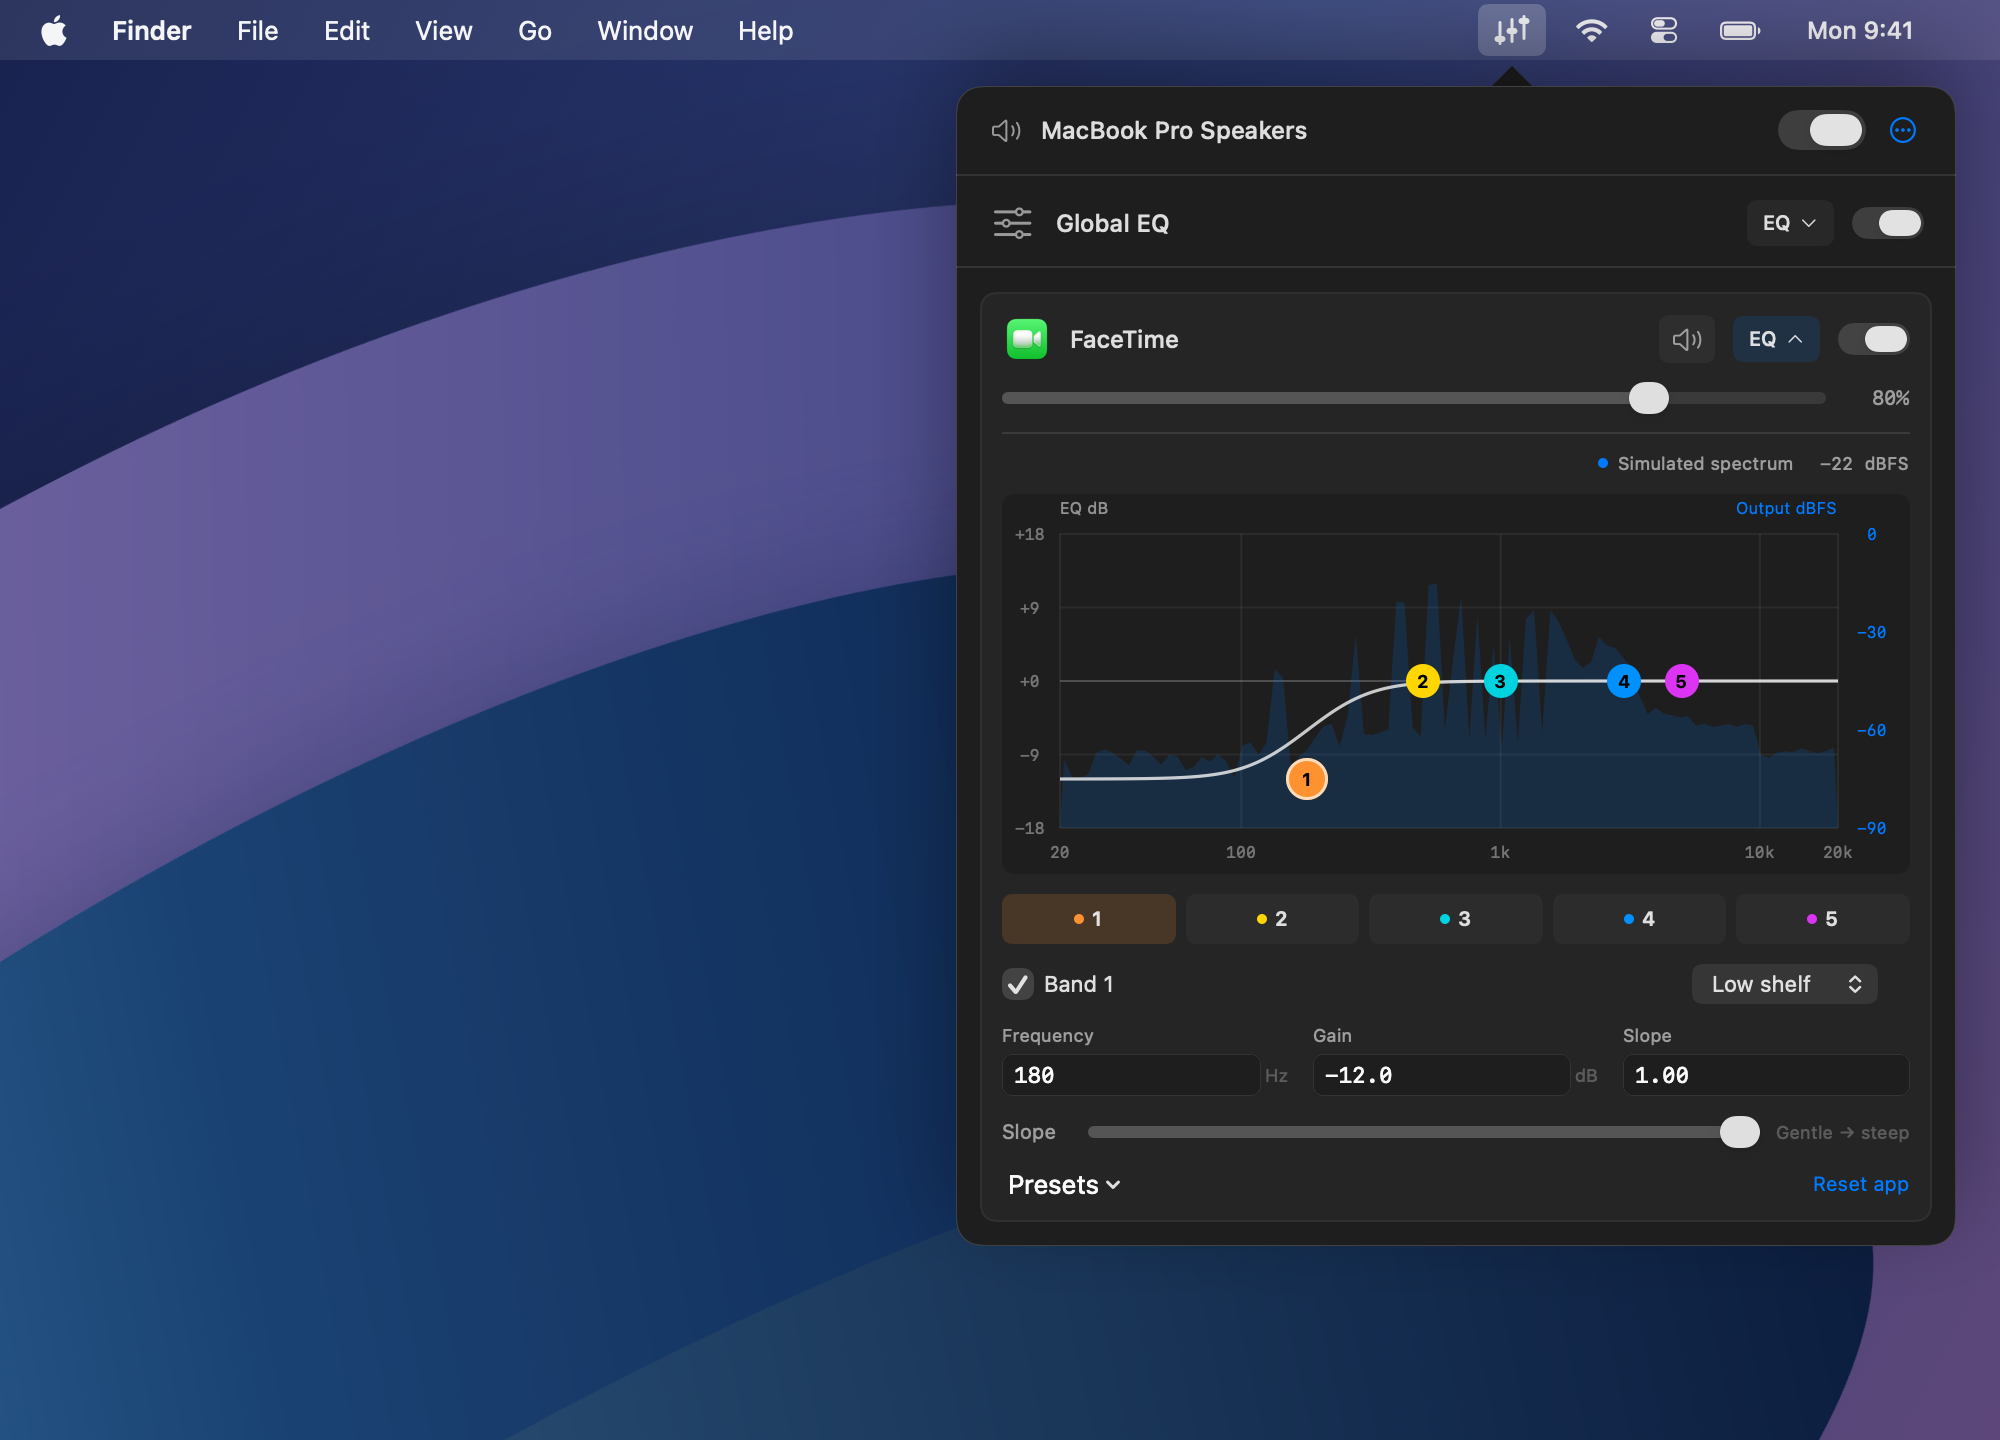
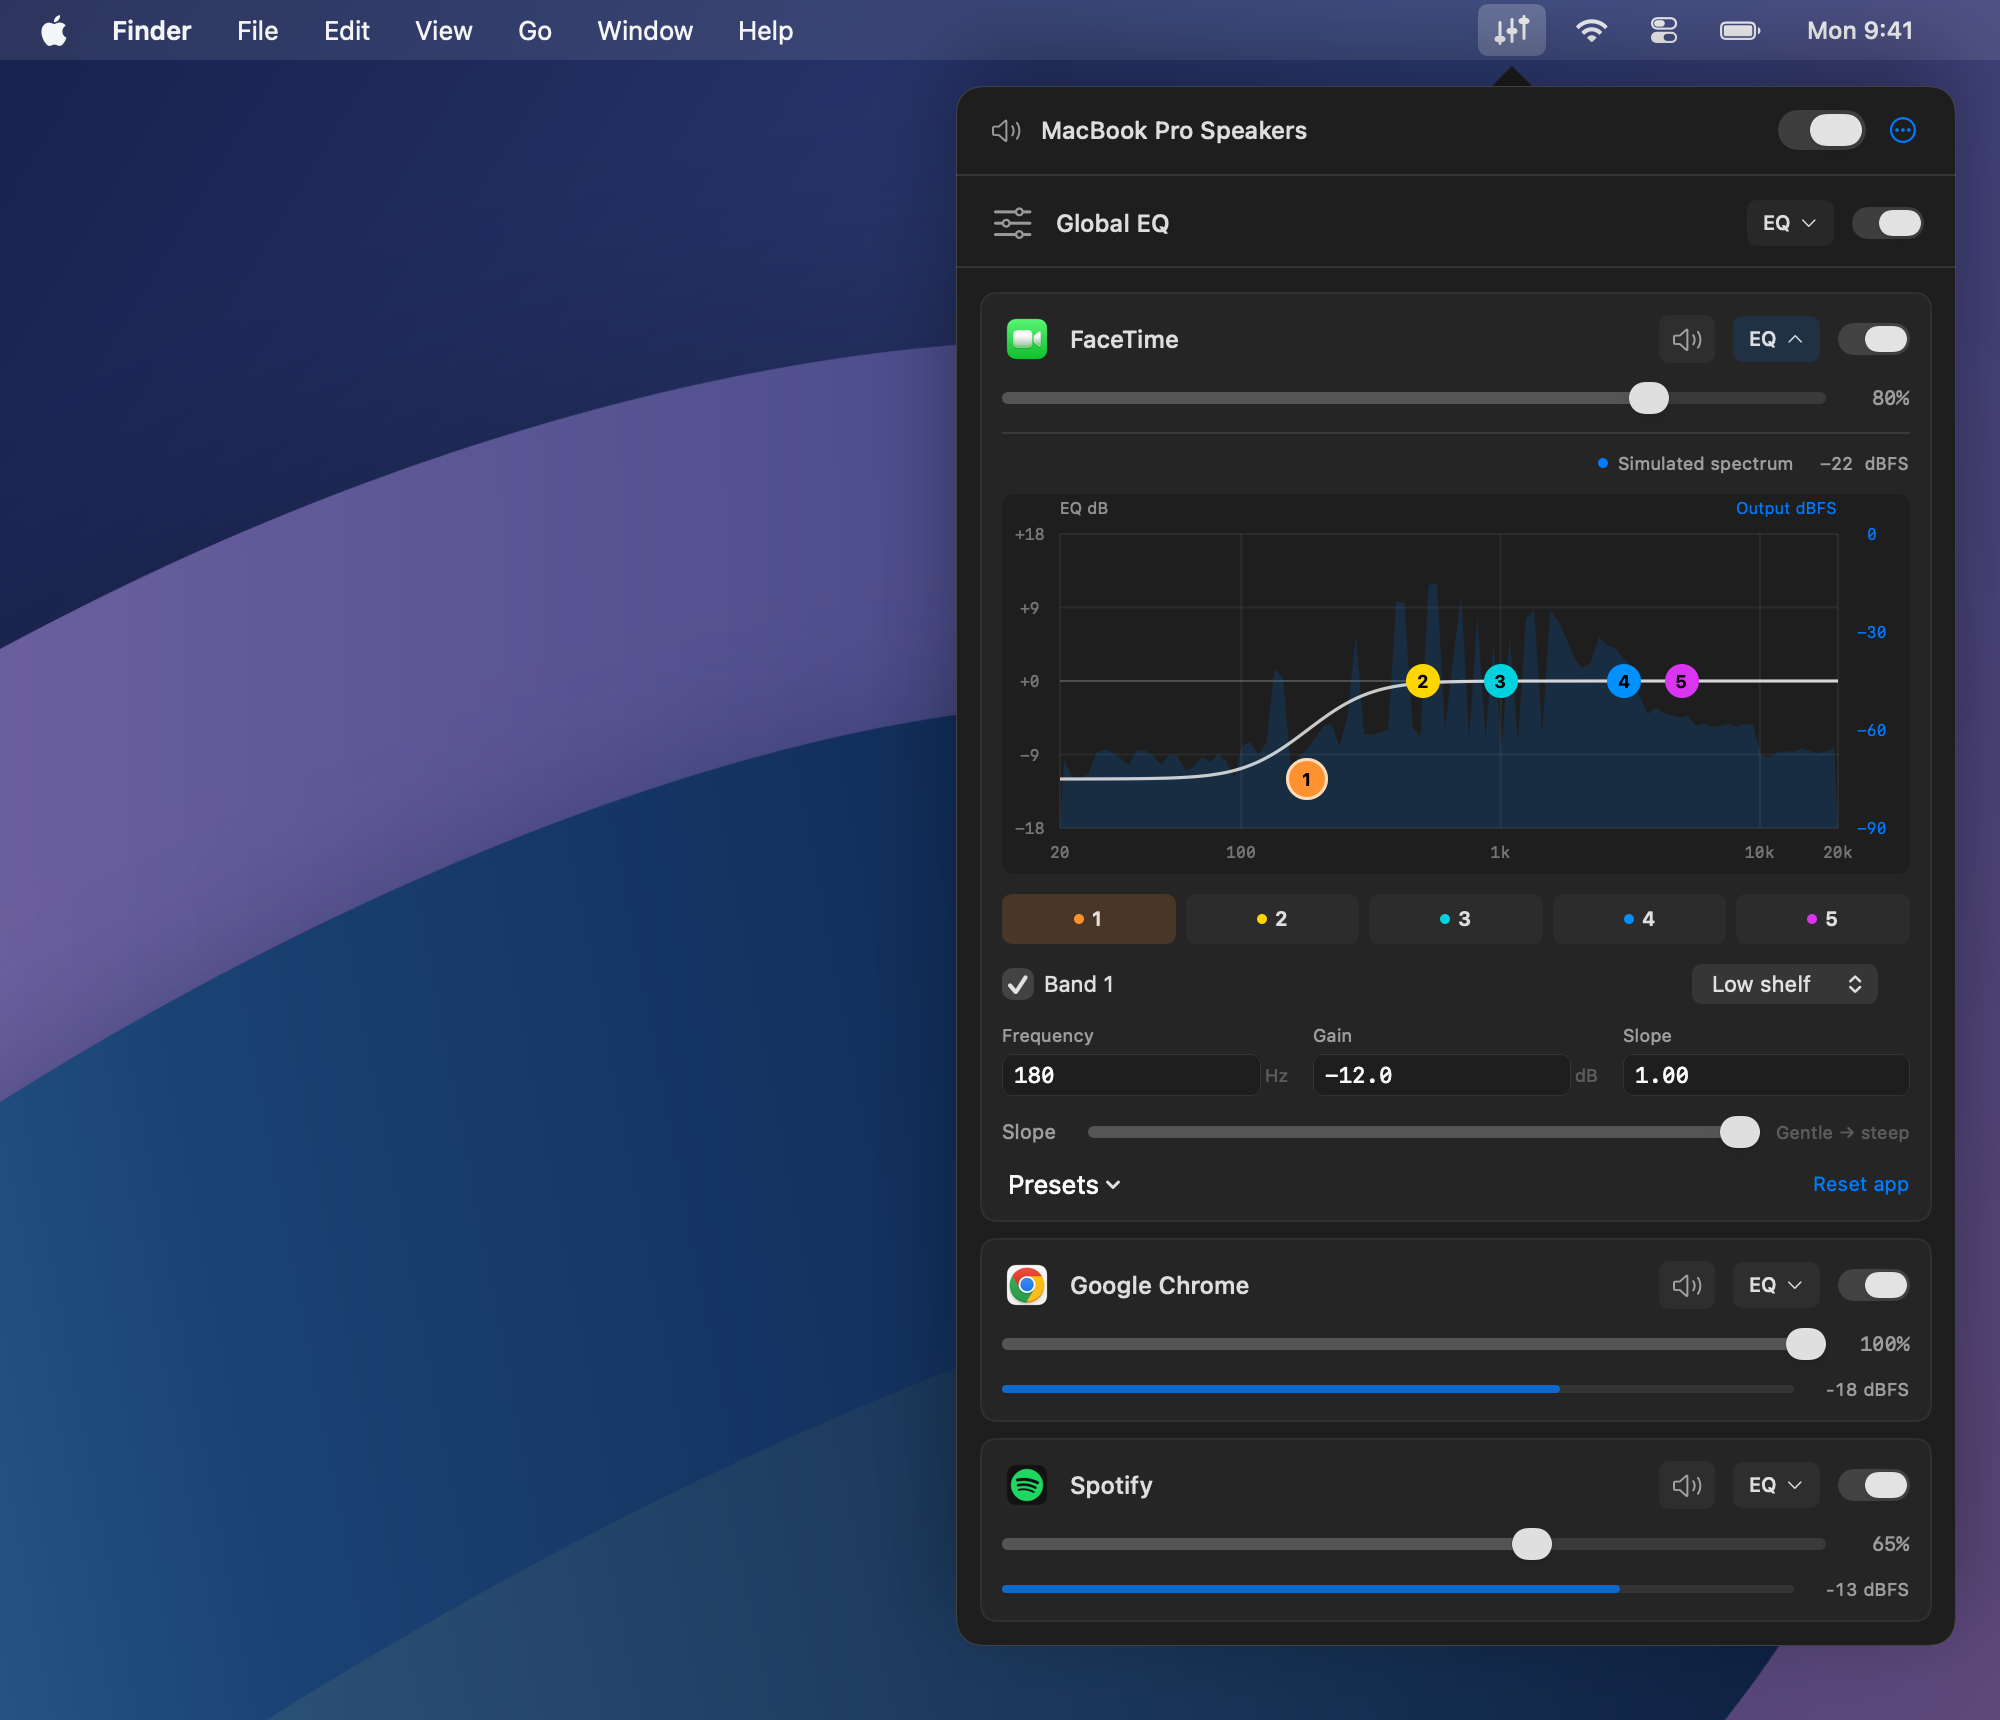
Feature multi-app EQ view in README screenshot

diff --git a/QEQ/App/Sources/DesktopScreenshot.swift b/QEQ/App/Sources/DesktopScreenshot.swift
@@ -8,6 +8,7 @@ import SwiftUI
 struct DesktopScreenshot: View {
     @ObservedObject var model: MixerModel
     let panelHeight: CGFloat
+    private var canvasHeight: CGFloat { max(720, panelHeight + 80) }
 
     var body: some View {
         ZStack(alignment: .topLeading) {
@@ -27,7 +28,7 @@ struct DesktopScreenshot: View {
             .shadow(color: .black.opacity(0.35), radius: 24, x: 0, y: 16)
             .offset(x: 478, y: 33)
         }
-        .frame(width: 1000, height: 720)
+        .frame(width: 1000, height: canvasHeight)
         .clipped()
         .environment(\.controlActiveState, .active)
     }
@@ -61,7 +62,7 @@ struct DesktopScreenshot: View {
                     startPoint: .topLeading, endPoint: .bottomTrailing)
             )
             .frame(width: 1400, height: 450).rotationEffect(.degrees(-30)).offset(x: -180, y: 580)
-        }.frame(width: 1000, height: 720).clipped()
+        }.frame(width: 1000, height: canvasHeight).clipped()
     }
 
     private var menuBar: some View {
@@ -100,9 +101,12 @@ struct DesktopScreenshot: View {
     }
 
     static func render(model: MixerModel, panelHeight: CGFloat, appearance: NSAppearance?, to path: URL) throws {
-        let host = NSHostingController(rootView: DesktopScreenshot(model: model, panelHeight: panelHeight))
+        let scene = DesktopScreenshot(model: model, panelHeight: panelHeight)
+        let canvasHeight = scene.canvasHeight
+        let host = NSHostingController(rootView: scene)
         let window = NSWindow(
-            contentRect: NSRect(x: -10000, y: 0, width: 1000, height: 720), styleMask: .borderless, backing: .buffered,
+            contentRect: NSRect(x: -10000, y: 0, width: 1000, height: canvasHeight), styleMask: .borderless,
+            backing: .buffered,
             defer: false)
         window.appearance = appearance
         window.contentViewController = host
@@ -115,9 +119,10 @@ struct DesktopScreenshot: View {
             CATransaction.flush()
         }
         let bitmap = NSBitmapImageRep(
-            bitmapDataPlanes: nil, pixelsWide: 2000, pixelsHigh: 1440, bitsPerSample: 8, samplesPerPixel: 4,
+            bitmapDataPlanes: nil, pixelsWide: 2000, pixelsHigh: Int(canvasHeight * 2), bitsPerSample: 8,
+            samplesPerPixel: 4,
             hasAlpha: true, isPlanar: false, colorSpaceName: .deviceRGB, bytesPerRow: 0, bitsPerPixel: 0)!
-        bitmap.size = NSSize(width: 1000, height: 720)
+        bitmap.size = NSSize(width: 1000, height: canvasHeight)
         ScreenshotControls.prepare(in: host.view)
         host.view.cacheDisplay(in: host.view.bounds, to: bitmap)
         try bitmap.representation(using: .png, properties: [:])!.write(to: path)

diff --git a/QEQ/App/Sources/ScreenshotRenderer.swift b/QEQ/App/Sources/ScreenshotRenderer.swift
@@ -116,7 +116,7 @@ struct ScreenshotRenderer {
         try DesktopScreenshot.render(
             model: model, panelHeight: layout().height, appearance: window.appearance,
             to: directory.appendingPathComponent("desktop-mixer.png"))
-        model.snapshot.apps = [zoom]
+        model.snapshot.apps = [zoom, chrome, music]
         model.selectedEQ = zoom.id
         simulateSpectra()
         host.rootView = MixerView(model: model).background(Color(nsColor: .windowBackgroundColor)).environment(
@@ -126,6 +126,7 @@ struct ScreenshotRenderer {
         try DesktopScreenshot.render(
             model: model, panelHeight: layout().height, appearance: window.appearance,
             to: directory.appendingPathComponent("desktop-app-equalizer.png"))
+        model.snapshot.apps = [zoom]
         model.globalEQ.bands = EQPreset.warm.bands
         model.selectedEQ = MixerModel.globalEQID
         simulateSpectra()

diff --git a/docs/DEVELOPMENT.md b/docs/DEVELOPMENT.md
@@ -123,7 +123,7 @@ python3 QEQ/scripts/screenshots.py --check
 
 The screenshot command renders the real SwiftUI views with labeled fixture settings in an offscreen app window. It never starts the audio engine, reads saved settings, or captures the screen. It also checks empty, populated, app/global EQ, long-list, smaller-screen and removal layouts. The source and image fingerprints in `docs/media/screenshots.json` prevent stale README screenshots from shipping. CI renders from its just-built app using `--skip-build`; normal preparation builds first. Screenshot fixtures use deterministic synthesized PCM (music harmonics, voiced speech, and noise), measured with a Hann-windowed FFT and labeled as simulated. The displayed EQ and volume are applied to those spectra; no live audio is captured.
 
-The same command produces `desktop-mixer.png` and `desktop-app-equalizer.png` for the README: the actual app UI on an illustrated desktop with a mock menu bar and QEQ’s menu bar icon. Both render at 2000 × 1440 pixels. The second image expands FaceTime’s EQ with a bass cut. `DesktopScreenshot.swift` owns the composition, `ScreenshotAudio.swift` generates the audio fixtures, and `ScreenshotControls.swift` supplies clean field borders for offscreen capture only. These images are included in the source/checksum manifest and existing CI/release screenshot artifacts.
+The same command produces `desktop-mixer.png` and `desktop-app-equalizer.png` for the README: the actual app UI on an illustrated desktop with a mock menu bar and QEQ’s menu bar icon. Both render at 2000 pixels wide; the desktop height grows to fit the panel without cropping. The primary README image expands FaceTime’s EQ with a bass cut while Chrome and Spotify stay collapsed. `DesktopScreenshot.swift` owns the composition, `ScreenshotAudio.swift` generates the audio fixtures, and `ScreenshotControls.swift` supplies clean field borders for offscreen capture only. These images are included in the source/checksum manifest and existing CI/release screenshot artifacts.
 
 The icon was created with the built-in image-generation tool. The source asset and final prompt are in `QEQ/Branding/`. The generator script only creates the standard macOS icon sizes from that source. The package, modules, targets, and scripts use QEQ. The legacy `local.AppMixer` bundle identity is retained so existing settings and permission identity remain available. The menu bar uses a native template drawing of the three staggered slider rails and knobs, without the app icon’s panels or outer border.
 

diff --git a/README.md b/README.md
@@ -8,13 +8,13 @@
 <p align="center">macOS 14.4+ · Apple Silicon & Intel</p>
 
 <p align="center">
-  <img src="docs/media/desktop-mixer.png" alt="QEQ per-app mixer open from a mock macOS menu bar" width="1000">
+  <img src="docs/media/desktop-app-equalizer.png" alt="FaceTime EQ expanded with Chrome and Spotify volume controls in QEQ" width="1000">
 </p>
 <p align="center"><sub>Illustrated desktop; real app UI with simulated spectra.</sub></p>
 
 <details>
-<summary>Per-app equalizer</summary>
-<img src="docs/media/desktop-app-equalizer.png" alt="QEQ per-app parametric equalizer on an illustrated desktop" width="1000">
+<summary>Global spectrum and mixer</summary>
+<img src="docs/media/desktop-mixer.png" alt="QEQ global spectrum and per-app mixer on an illustrated desktop" width="1000">
 </details>
 
 ## Features
